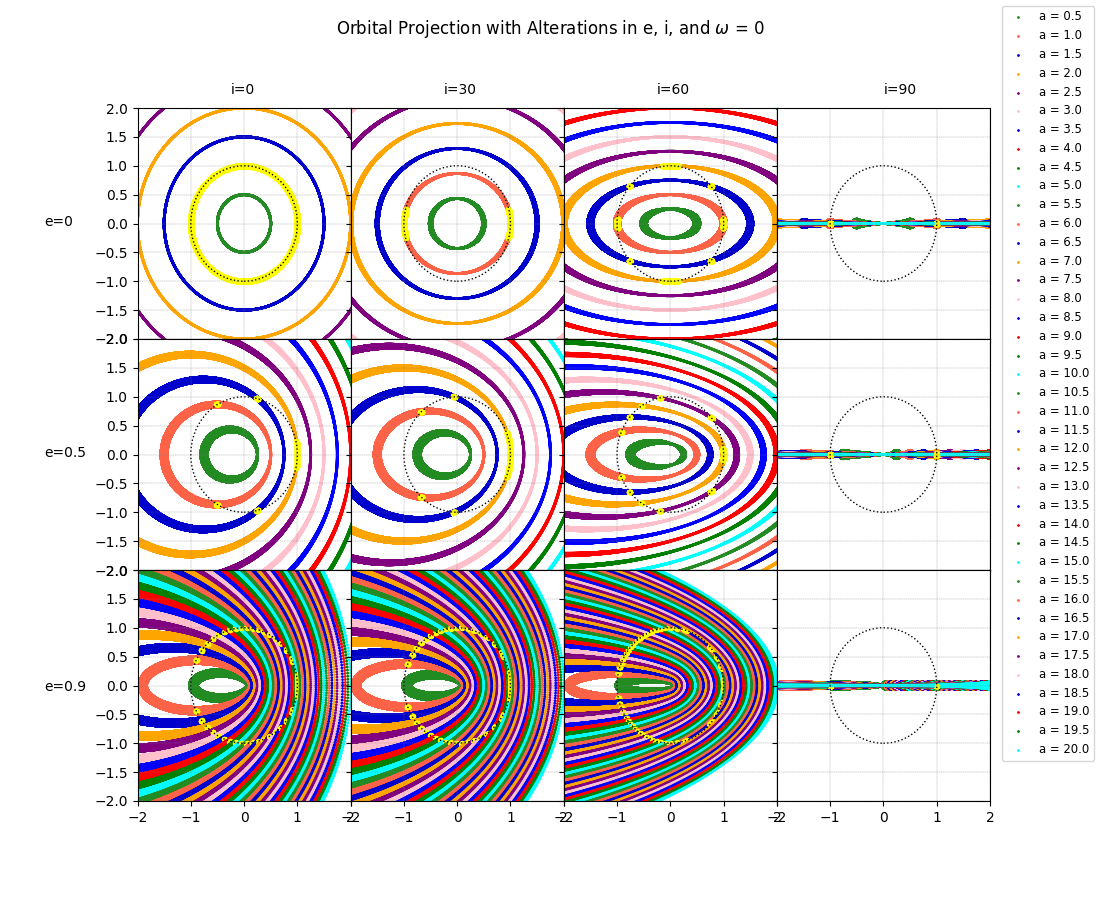
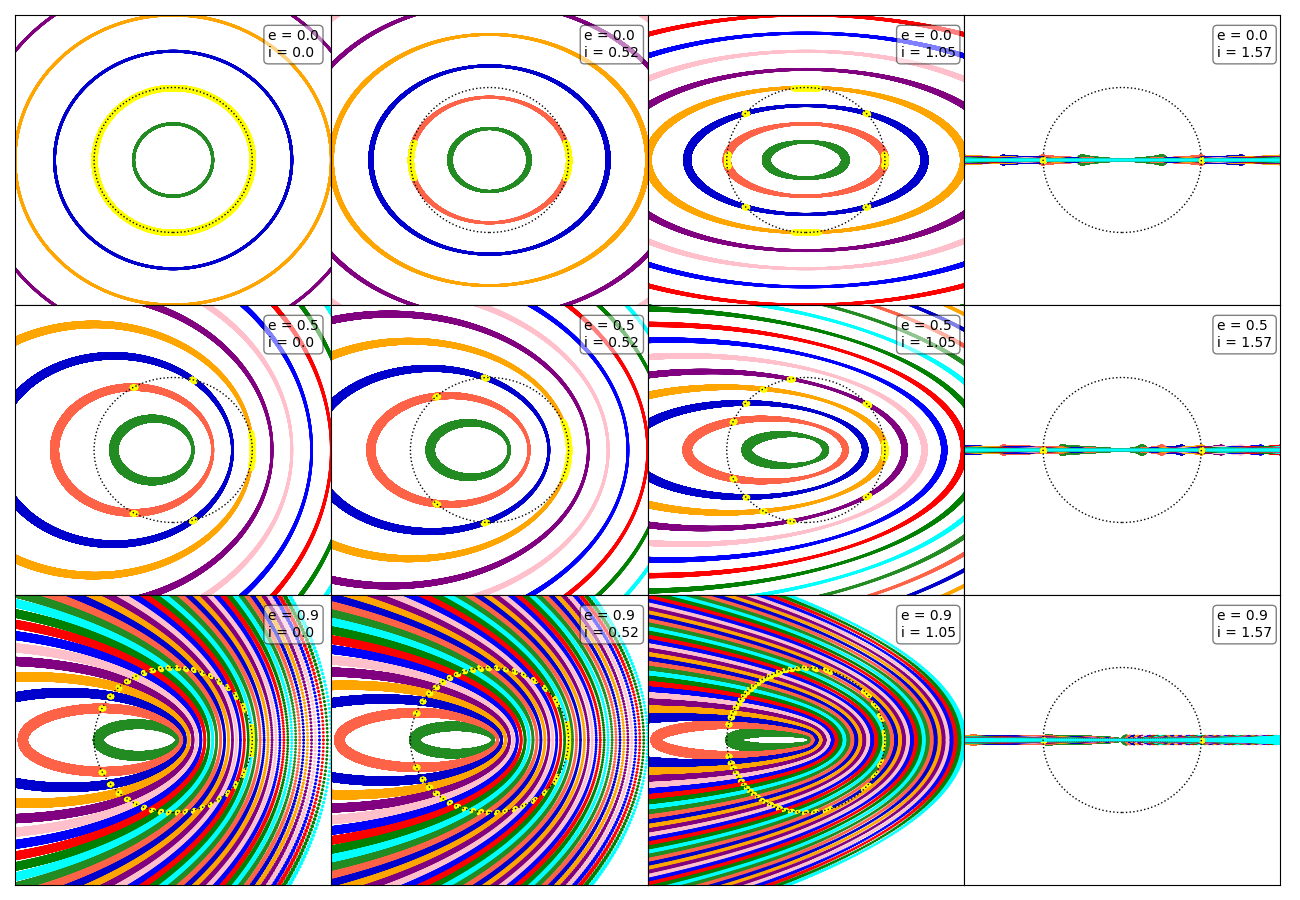
Reverted changes to omega iteration for MultiProj and MultiHist, changed normalization of UnityHist (needs to be changed still)

diff --git a/Sep_plot.py b/Sep_plot.py
@@ -187,141 +187,129 @@ class Sep_plot(Sep_gen):
         totlist = []
         
         # Gets everything ready for multiprocessing of orbital projections
-        # Does it for 4 omegas
-        w = 0
-        for i in range(4):
-            list, totparam, listt = self.DataProj(w = w, start = start, end = end, step = step)
-            w += np.pi/6
-            totlist.append((list, totparam, listt))
-            i+=1
-            
+        list, totparam, listt = self.DataProj(w = w, start = start, end = end, step = step)
+        rect = dict(boxstyle = "round", alpha = 0.5, facecolor = "white")        
         
-        fig = plt.figure(figsize = (13,9))
+        fig, axs = plt.subplots(3,4, figsize = (13,9), gridspec_kw = {"hspace" : 0, "wspace" : 0}, sharex = False, sharey = False)
         # Makes the 2 x 2 figure for the 3 x 4 figures to go into
-        subfigs = fig.subfigures(2,2, hspace = 0, wspace = 0)
-        fig.suptitle("Orbital Projection with Alterations in e, i, and "r"From $\omega$ 0 to $\ \frac{\pi}{2}$", x = 0.49, y = 0.99)
-        for outer, subfig in enumerate(subfigs.flat):
+        # fig.suptitle("Orbital Projection with Alterations in e, i, and "r"From $\omega$ 0 to $\ \frac{\pi}{2}$", x = 0.49, y = 0.99)
+    
+        # Iterates through each subplot in the 3x4 figure
+        for j, ax  in enumerate(axs.flatten()):
             
-            list, totparam, listt = totlist[outer]
-            # Iterates through each subplot in the 3x4 figure
-            axs = subfig.subplots(3,4, gridspec_kw = {"hspace" : 0, "wspace" : 0})
-            for j, ax  in enumerate(axs.flatten()):
+            # Takes the first data set in the list
+            # These contain 12 other data sets  
+            iterlist = list[j]
+            param = totparam[j]
+            
+            # Finds points <= 0.01 for each projection
+            rtemp, xchange, ychange, rtemp_log, temp = Sep_gen.Rchange(param, coords = True)
+            
+            vel = Sep_gen.Velocity(param)
+            # Iterates through the data clump to access
+            # the data set 
+            for g in range(len(iterlist)):
+                # This contains each data set in the data clump
+                initialx, initialy = iterlist[g]
+                # Calculates the velocity of each data point in the data set
                 
-                # Takes the first data set in the list
-                # These contain 12 other data sets  
-                iterlist = list[j]
-                param = totparam[j]
+                rlist.append(rtemp)
+                # print("Last Velocity Output: ", vel[-1])
+                velmax = np.max(vel[g])
+                # # IMPORTANT!!!!!
+                velmin = 0.1
                 
-                # Finds points <= 0.01 for each projection
-                rtemp, xchange, ychange, rtemp_log, temp = Sep_gen.Rchange(param, coords = True)
+                dot = Sep_gen.DotSize(vel[g],velmax,velmin)
+                # print("Last Dot Size Output: ", dot[-1])
                 
-                vel = Sep_gen.Velocity(param)
-                # Iterates through the data clump to access
-                # the data set 
-                for g in range(len(iterlist)):
-                    # This contains each data set in the data clump
-                    initialx, initialy = iterlist[g]
-                    # Calculates the velocity of each data point in the data set
-                    
-                    rlist.append(rtemp)
-                    # print("Last Velocity Output: ", vel[-1])
-                    velmax = np.max(vel[g])
-                    # # IMPORTANT!!!!!
-                    velmin = 0.1
-                    
-                    dot = Sep_gen.DotSize(vel[g],velmax,velmin)
-                    # print("Last Dot Size Output: ", dot[-1])
-                    
-                    # Determines the colors of each data set according
-                    # to its positioning
-                    colorlist = ["forestgreen", "tomato", "mediumblue", "orange", "purple",
-                                    "pink", "blue", "red", "green", "cyan"]
-                    if end == 1.25:
-                        if g == 0:
-                            label = "a = 0.75"
-                            color = colorlist[g]
-                        elif g == 1:
-                            label = "a = 1.0"
-                            color = colorlist[g]
-                        else:
-                            label = "a = 1.25"
-                            color = colorlist[g]
-                    elif end == 1.5:
-                        if g == 0:
-                            label = "a = 0.5"
-                            color = colorlist[g]
-                        elif g == 1:
-                            label = "a = 1.0"
-                            color = colorlist[g]
-                        else:
-                            label = "a = 1.5"
-                            color = colorlist[g]
+                # Determines the colors of each data set according
+                # to its positioning
+                colorlist = ["forestgreen", "tomato", "mediumblue", "orange", "purple",
+                                "pink", "blue", "red", "green", "cyan"]
+                if end == 1.25:
+                    if g == 0:
+                        label = "a = 0.75"
+                        color = colorlist[g]
+                    elif g == 1:
+                        label = "a = 1.0"
+                        color = colorlist[g]
                     else:
-                        rangelist = np.arange(0.5,end+0.5,0.5)
-                        alpha = rangelist[g]
-                        label = f"a = {alpha}"
-                        color = colorlist[g % 10]   
-                    
-                    # Plots the data set, including the dot size according to velocity        
-                    dataproj = ax.scatter(initialx, initialy, s=dot, color= color, label=label)
-                    # Also includes points at which |r-r0| <= 0.01
-                    data = ax.scatter(xchange[g], ychange[g], s = 8, color = "yellow")
-                    
-                    # Creates the grid for each plot
-                    ax.grid(True,color = "grey", linestyle="--", linewidth="0.55", axis = "both", which = "both")
-                
-                    if outer == 1:
-                        if j < 4:
-                            ax.set_yticks([])
-                            ax.xaxis.tick_top()
-                            ax.tick_params(axis = "x", pad = -1.5)
-                            ax.xaxis.set_major_locator(plt.MaxNLocator(2))
-                            if j == 3:
-                                ax.yaxis.set_major_locator(plt.MaxNLocator(3))
-                                ax.yaxis.tick_right()
-                        elif j == 7 or j == 11 :
-                            ax.yaxis.set_major_locator(plt.MaxNLocator(3))
-                            ax.yaxis.tick_right()
-                            ax.tick_params(axis = "x", labelbottom = False)
-                        else:
-                            ax.set_yticks([])
-                            ax.tick_params(axis = "x", labelbottom = False)
+                        label = "a = 1.25"
+                        color = colorlist[g]
+                elif end == 1.5:
+                    if g == 0:
+                        label = "a = 0.5"
+                        color = colorlist[g]
+                    elif g == 1:
+                        label = "a = 1.0"
+                        color = colorlist[g]
                     else:
-                        ax.tick_params(axis = "x", labelbottom = False)
-                        ax.set_yticks([])
-                    
-                    
-                # Plots an Einstein Ring Radius of 1 around each plot
-                Circ2 = patches.Circle((0,0), 1, ec="k", fill=False, linestyle = ":", linewidth = 1)
+                        label = "a = 1.5"
+                        color = colorlist[g]
+                else:
+                    rangelist = np.arange(0.5,end+0.5,0.5)
+                    alpha = rangelist[g]
+                    label = f"a = {alpha}"
+                    color = colorlist[g % 10]   
                 
-                # Adds the Circle to the plot
-                ax.add_patch(Circ2)
+                # Plots the data set, including the dot size according to velocity        
+                dataproj = ax.scatter(initialx, initialy, s=dot, color= color, label=label)
+                # Also includes points at which |r-r0| <= 0.01
+                data = ax.scatter(xchange[g], ychange[g], s = 8, color = "yellow")
                 
-                # Just grabs the labels for each plot just before it iterates through again
-                if j == 0:
-                    handles, labels = ax.get_legend_handles_labels()
-                    
-                # Limits
-                ax.set_xlim(-2,2)
-                ax.set_ylim(-2,2)
+            # Creates the grid for each plot
+            ax.grid(True,color = "grey", linestyle="--", linewidth="0.55", axis = "both", which = "both")
+
+            textstr = "\n".join((f'e = {param[0]}', f'i = {round(param[1],2)}'))
+            ax.text(0.80, 0.95, textstr, transform = ax.transAxes, fontsize = 10, verticalalignment = "top", bbox = rect)
                 
-                
-                # if outer == 2:
-                    # ax.text(-18,7.95,"e=0")
-                    # ax.text(-18,3.95,"e=0.5")
-                    # ax.text(-18,-0.1,"e=0.9")
-                    # ax.text(-18,10.25,"i=0")
-                    # ax.text(-8.25,10.25,r"i=$\frac{\pi}{6}$")
-                    # ax.text(-4.25,10.25,r"i=$\frac{\pi}{3}$")
-                    # ax.text(0,10.25,r"i=$\frac{\pi}{2}$")
-                # else:
-                ax.set_xticks([])
+            if j < 8 or j >= 9:
                 ax.set_yticks([])
-                    
+                ax.set_xticks([])
+                ax.tick_params(axis = "x", labelbottom = True)
+            elif j == 11:
+                # handles = [patches.Rectangle((0,0),1,1,color = c, ec = "w") for c in colorlist]
+                # if which == "Linear":
+                #     labels = ["Linear"]
+                # else:
+                #     labels = ["Linear", "Log", r"Power Law: $\alpha = 2$"]
+                
+                final_ax = axs.flatten()[-1]
+                handles, labels = final_ax.get_legend_handles_labels()
+                final_ax.legend(handles[0:5],labels[0:5],fontsize="small", transform = ax.get_xaxis_transform(), prop = {"size":8}, borderpad = 0.5, labelspacing = 0.75, handlelength = 2, framealpha = 0.5)
+                
+            # Plots an Einstein Ring Radius of 1 around each plot
+            Circ2 = patches.Circle((0,0), 1, ec="k", fill=False, linestyle = ":", linewidth = 1)
+            
+            # Adds the Circle to the plot
+            ax.add_patch(Circ2)
+            
+            # # Just grabs the labels for each plot just before it iterates through again
+            # if j == 0:
+            #     handles, labels = ax.get_legend_handles_labels()
+                
+            # Limits
+            ax.set_xlim(-2,2)
+            ax.set_ylim(-2,2)
+            
+            
+            # if outer == 2:
+                # ax.text(-18,7.95,"e=0")
+                # ax.text(-18,3.95,"e=0.5")
+                # ax.text(-18,-0.1,"e=0.9")
+                # ax.text(-18,10.25,"i=0")
+                # ax.text(-8.25,10.25,r"i=$\frac{\pi}{6}$")
+                # ax.text(-4.25,10.25,r"i=$\frac{\pi}{3}$")
+                # ax.text(0,10.25,r"i=$\frac{\pi}{2}$")
+            # else:
+            ax.set_xticks([])
+            ax.set_yticks([])
+                
         
         # Shows the legend of each data point
-        fig.legend(handles[0:10],labels[0:10],fontsize="small", prop = {"size":8}, borderpad = 0.5, labelspacing = 0.75, handlelength = 2, framealpha = 0.5)
-        fig.tight_layout(pad=0.05, rect = (0.02, 0.02, 0.95, 0.95))
+        # fig.legend(handles[0:5],labels[0:5],fontsize="small", prop = {"size":8}, borderpad = 0.5, labelspacing = 0.75, handlelength = 2, framealpha = 0.5)
+        # fig.tight_layout(pad=0.05, rect = (0.02, 0.02, 0.95, 0.95))
+        fig.tight_layout()
         # Shows where the data values change according to the plot 
         # subfig.text(-15.75,7.95,"e=0")
         # subfig.text(-15.75,3.95,"e=0.5")
@@ -333,6 +321,7 @@ class Sep_plot(Sep_gen):
         
         # Saves to Figure Folder
         plt.savefig(f"/College Projects/Microlensing Separation/Figures/Multi_a05_{end}_omegas.png")
+        # plt.savefig(f"C:/Users/victo/College Projects/Microlensing Separation/Figures/Multi_a05_{end}_omega_0.png")
         # plt.show()
         
         return rlist
@@ -355,12 +344,13 @@ class Sep_plot(Sep_gen):
         rect = dict(boxstyle = "round", alpha = 0.5, facecolor = "white")
         
         
-        fig, axs = plt.subplots(3,4, figsize = (9,11), gridspec_kw = {"hspace" : 0, "wspace" : 0}, sharex = False, sharey = False) 
+        fig, axs = plt.subplots(3,4, figsize = (13,9), gridspec_kw = {"hspace" : 0, "wspace" : 0}, sharex = False, sharey = False) 
         # if which == "Linear":
         #     fig.suptitle("Detections of $R_E$ with Alterations in e, i, and "r"$\omega$ = 0" f" ({which})", x = 0.49, y = 0.99)
         # else:
         #     fig.suptitle("Detections of $R_E$ with Alterations in e, i, and "r"$\omega$ = 0" f"\n (For Linear, Log, & Power Law)", x = 0.49, y = 0.99)
-            # Iterates through each subplot in the 3x4 figure 
+        
+        # Iterates through each subplot in the 3x4 figure 
         for j, ax  in enumerate(axs.flatten()):
             # xticks = ax.xaxis.get_major_ticks()
             # xticks.lable1.set_visible(False)
@@ -729,7 +719,7 @@ class Sep_plot(Sep_gen):
         # Gamma Portion
         alpha = 1.35 # Shape (Alpha)
         theta = 1/5.05 # Scale (Beta = 1 / Scale)
-        x = np.linspace(0,0.98,self.numestep)
+        x = np.linspace(0,0.98, wnum)
         gammastep = gamma.pdf(x, a = alpha, scale = theta)
         
         esteplist = []*self.numdiv
@@ -778,9 +768,11 @@ class Sep_plot(Sep_gen):
                     elif val == len(histlist)-1 and i == len(totlist)-1:
                         tothist = tothist + hist
                         norm = np.abs(1 / (np.sum(bins)*logbinsize))
-                        StepPatch = ax.stairs(tothist * norm, bins, edgecolor = colorlist[0], fill = False, label = "Uniform Dist.") # Uniform Dist
+                        total = np.sum(tothist)
+                        print(total)
+                        StepPatch = ax.stairs(tothist, bins, edgecolor = colorlist[0], fill = False, label = "Uniform Dist.") # Uniform Dist
                         # May or may not need norm for gamma
-                        StepPatch = ax.stairs(totgammahist * norm, bins, edgecolor = colorlist[1], fill = False, label = "Gamma Dist.") # Gamma Dist
+                        StepPatch = ax.stairs(totgammahist, bins, edgecolor = colorlist[1], fill = False, label = "Gamma Dist.") # Gamma Dist
                         StepPatch = ax.stairs(ecirchist, bins, edgecolor = colorlist[2], fill = False, label = "Circular Dist.") # Circular Dist
                     else:
                         tothist = tothist + hist
@@ -807,7 +799,8 @@ class Sep_plot(Sep_gen):
         #     print("Did not save figure, something must be wrong....")
         #     print(os.getcwd())
         
-        plt.savefig(f'/College Projects/Microlensing Separation/Figures/UnityHist_eccent_incline_{self.numestep}_0002_{which}.png')
+        # plt.savefig(f'/College Projects/Microlensing Separation/Figures/UnityHist_eccent_incline_{self.numestep}_0002_{which}.png')
+        plt.savefig(f"C:/Users/victo/College Projects/Microlensing Separation/Figures/UnityHist_eccent_incline_{self.numestep}_0002_{which}.png")
         return tothist
 
 
@@ -830,19 +823,19 @@ if __name__ == "__main__":
     #     plotter = Sep_plot(numestep=numestep, numdiv=numdiv)
     #     plotter.UnityPlotHist(which=which, wnum=wnum, inum=inum, unity=unity)
     # cli()
-    numestep = 5
-    numdiv = 5
+    numestep = 4
+    numdiv = 2
     wnum = 5 # THIS DETERMINES HOW MANY POSITIONS IN THE ARRAY THERE ARE
     inum = wnum
-    which = "Log"
+    which = "Linear"
     unity = "False"
     tothist = Sep_plot(numestep=numestep, numdiv=numdiv)
     # rlist = tothist.MultiPlotProj(w = 0, start = 0.5, end = 20, step = 0.5)
-    rtemp = tothist.MultiPlotHist(w = 0, step = 0.002, end = 20, which = which)
+    # rtemp = tothist.MultiPlotHist(w = 0, step = 0.002, end = 20, which = which)
     
     #step, end, inclination, which, estep_outer, inum, wnum
     # clist = tothist.CompletePlotHist([0.002, 20, True,"Linear", [], 75, 75])
-    # tothist.UnityPlotHist(which = which, wnum = wnum, inum = inum, unity = unity)
+    tothist.UnityPlotHist(which = which, wnum = wnum, inum = inum, unity = unity)
     
     
 
